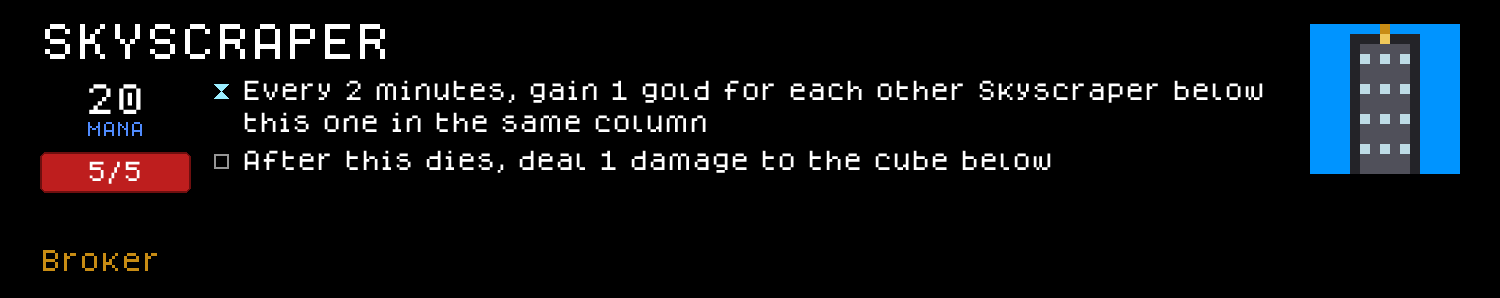
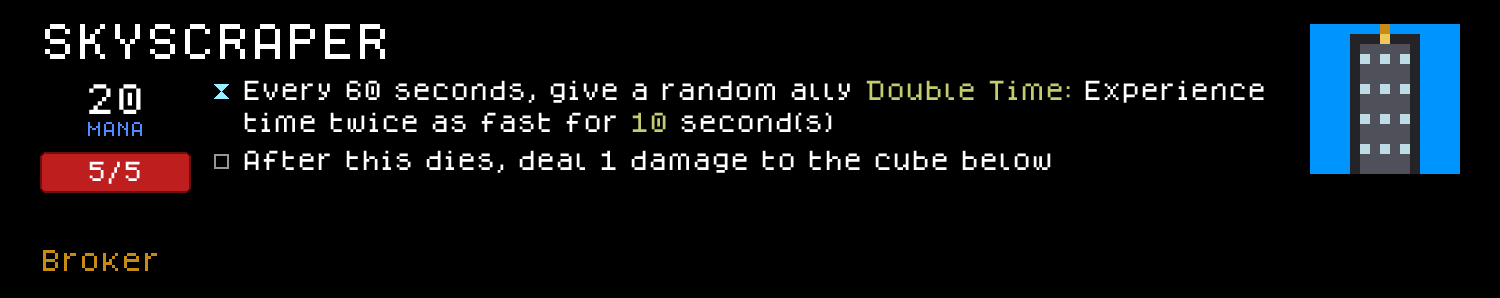
Rework Broker class
Also adds HP-type animation previews and upgrade-perk sprite sheet support.

Changed region(s): [[0.1533, 0.2718, 0.8587, 0.453]]

diff --git a/.claude/skills/cube-chaos-sprite-art/scripts/render_preview_cards.py b/.claude/skills/cube-chaos-sprite-art/scripts/render_preview_cards.py
@@ -583,6 +583,55 @@ def build_double_gif(mod_dir, cube_name, anim_name, frame_indices, out_path):
                  duration=DOUBLE_FRAME_MS, loop=0, disposal=2)
 
 
+HP_FRAME_MS = 700  # dwell per hp point. An HP animation's frame ORDER is fully determined
+# (see below), but its real-time pacing is not -- how fast a cube loses hp is a property of
+# the battle, not of the Animation: line -- so this is a fixed watchable rate, and the
+# README caption carries the hp range, the same division of labour CLOCK uses for cadence.
+
+
+def hp_frame_sequence(thresholds, amount, max_hp):
+    """Frame index shown at each hp value, from full hp down to 1.
+
+    Deterministic, unlike DOUBLE: an HP animation's ratio is exactly `1 - hp/max_hp`
+    (HPAnimation.AutoChangedCheck, decompiled and quoted in
+    cube-chaos-scripting/references/cube-animation.md), so the whole sequence follows from
+    max_hp plus the threshold list -- no live battle state involved.
+
+    Reproduces the engine's cumulative walk INCLUDING its carry semantics: `LastFrame` is
+    only written when `index > 0`, so at full hp (ratio 0, below every cumulative sum) the
+    frame is left at its default 0 -- which is why frame 0 (the LEFTMOST tile) is the
+    undamaged pose for an HP animation. That is the opposite of TRIGGER, where the resting
+    pose is the LAST frame; the two types settle at opposite ends of the strip.
+    """
+    seq, last = [], 0
+    for hp in range(max_hp, 0, -1):
+        remaining, index = 1.0 - hp / max_hp, 0
+        while index < amount and remaining >= thresholds[index]:
+            remaining -= thresholds[index]
+            index += 1
+        if index > 0:
+            last = index - 1
+        seq.append(last)
+    return seq
+
+
+def build_hp_gif(mod_dir, cube_name, anim_name, rest_tokens, max_hp, out_path):
+    if rest_tokens[0] == "EQUAL":
+        amount = int(rest_tokens[1])
+        thresholds = [1.0 / amount] * amount
+    else:
+        amount = int(rest_tokens[0])
+        thresholds = [float(t) for t in rest_tokens[1:1 + amount]]
+    frames = load_animation_frames(mod_dir, cube_name, anim_name)
+    assert len(frames) == amount, (
+        f"{cube_name}_{anim_name}.png has {len(frames)} frames, Animation: declares {amount}")
+    order = hp_frame_sequence(thresholds, amount, max_hp)
+    imgs = [frames[i].resize((CUBE_ANIM_GIF_PX, CUBE_ANIM_GIF_PX), Image.NEAREST)
+            for i in order]
+    imgs[0].save(out_path, save_all=True, append_images=imgs[1:],
+                 duration=HP_FRAME_MS, loop=0, disposal=2)
+
+
 def build_cube_animation_gifs(mod_dir, mod_prefix, out_dir):
     txt_path = os.path.join(mod_dir, f"{mod_prefix}_Cubes.c.txt")
     if not os.path.exists(txt_path):
@@ -608,8 +657,16 @@ def build_cube_animation_gifs(mod_dir, mod_prefix, out_dir):
                 build_double_gif(mod_dir, cube_name, anim_name,
                                   list(range(animation_amount(rest))),
                                   os.path.join(out_dir, out_name))
+            elif atype == "HP":
+                # maxhp is the CUBE: header's 4th field; the frame sequence is fully
+                # determined by it plus the thresholds (see hp_frame_sequence).
+                max_hp = int(b["header"].group(4))
+                if max_hp < 1:
+                    continue  # a 0-maxhp cube never renders a damaged state
+                build_hp_gif(mod_dir, cube_name, anim_name, rest, max_hp,
+                             os.path.join(out_dir, out_name))
             else:
-                continue  # HP/BOOLEAN/TIME playback isn't implemented yet
+                continue  # BOOLEAN/TIME playback isn't implemented yet
             written.append(out_name)
     return written
 
@@ -1260,11 +1317,29 @@ def build_perks():
         for i, b in enumerate(blocks):
             name_to_slot[b["header"].group(1)] = (basename, i)
 
-    # Upgrades live in their own sprite-less file, matching base-game
-    # convention (e.g. ZUpgradeClassPerks.c.txt) -- read it too, if present.
+    # Upgrades live in their own file, matching base-game convention (e.g.
+    # ZUpgradeClassPerks.c.txt) -- read it too, if present.
     upgrade_path = os.path.join(MOD_DIR, f"{MOD_PREFIX}_UpgradePerks.c.txt")
     upgrade_blocks = parse_blocks(upgrade_path, PERK_HEADER) if os.path.exists(upgrade_path) else []
     upgrade_by_name = {b["header"].group(1): b for b in upgrade_blocks}
+
+    # That file MAY ship its own real sheet. The base game always leaves it
+    # sprite-less (the icon then falls back to the base perk's, via the chain
+    # walk below), but the engine renders a real one fine, and SKILL.md's
+    # going-forward preference is to give new upgrade files real art. Register
+    # it as a normal icon source when it exists, so an upgrade shows its OWN
+    # icon instead of silently reusing its base perk's. Broker's Downtown is
+    # the first in this repo to have one.
+    upgrade_sheet_path = os.path.join(SPRITES, f"{MOD_PREFIX}_UpgradePerks.c.png")
+    if upgrade_blocks and os.path.exists(upgrade_sheet_path):
+        up_sheet = load_sheet(f"{MOD_PREFIX}_UpgradePerks.c.png")
+        sources["UpgradePerks"] = {
+            "blocks": upgrade_blocks,
+            "sheet": up_sheet,
+            "cols": real_cols(up_sheet, TILE_PERK, len(upgrade_blocks)),
+        }
+        for i, b in enumerate(upgrade_blocks):
+            name_to_slot[b["header"].group(1)] = ("UpgradePerks", i)
 
     def resolve_icon_slot(target_name, seen=frozenset()):
         # Walk the IsUpgradeFrom chain -- an upgrade can itself be the base
@@ -1315,8 +1390,12 @@ def build_perks():
         for i, b in enumerate(sources[basename]["blocks"]):
             cards.append(render_block(b, (basename, i)))
     for b in upgrade_blocks:
-        base_name = field(b["lines"], "IsUpgradeFrom:").split()[0]
-        cards.append(render_block(b, resolve_icon_slot(base_name)))
+        name = b["header"].group(1)
+        if name in name_to_slot:
+            cards.append(render_block(b, name_to_slot[name]))  # has its own art
+        else:
+            base_name = field(b["lines"], "IsUpgradeFrom:").split()[0]
+            cards.append(render_block(b, resolve_icon_slot(base_name)))
     return cards
 
 

diff --git a/.claude/skills/cube-chaos-mod-setup/scripts/sync_readme_preview.py b/.claude/skills/cube-chaos-mod-setup/scripts/sync_readme_preview.py
@@ -147,6 +147,8 @@ ANIMATION_CAPTIONS = {
     ("Unholy", "Two_Headed_Demon", "BiteLeft"): "Left Head Bite (every 0.7s)",
     ("Unholy", "Two_Headed_Demon", "BiteRight"): "Right Head Bite (every 2s)",
     ("Unholy", "Hell_Portal", "Open"): "Cube Spawn (every 60s)",
+    ("Broker", "Construction_Site", "Build"): "Skyscraper Build (every 2 min)",
+    ("Broker", "Skyscraper", "Crumble"): "Damage (5 hp down to 1)",
 }
 
 

diff --git a/.claude/skills/cube-chaos-scripting/references/perk-economy.md b/.claude/skills/cube-chaos-scripting/references/perk-economy.md
@@ -39,7 +39,7 @@ Confirmed via the complete real files: `Extra_Mechanics/Blights.c.txt` (24 entri
 - **Trigger keyword is genuinely mixed for Blight/Boon, unlike Curses' consistent `WorldAbility:`.** Real entries use whichever of `ObtainAction:`/`RemoveAction:` (one-shot effect on gain/loss, e.g. `Cheap_Difficulty`'s `ChangeCampaignVariable DIFFICULTY`), `WorldAbility:` (battle-scoped, bare `IsAlly`/`IsEnemy` same as Curses — e.g. `Early_Resistance`'s `AtTheStartOfTheBattle`), or `CampaignAbility:` (meta/run-scoped reactions with no single-battle context — `AfterYouUpgradeAPerk`, `BeforeYouTakeAStep`, `AfterAMapIsGenerated`, `AfterYouGainAPerk`, `AfterYouGainOrLoseCurrency`) actually fits the effect. One Boon (`Sturdy_Leader`) even uses a bare `Ability: AtTheStartOfTheBattle` for what reads like a `WorldAbility:`-shaped effect — an observed inconsistency in the real file, not a rule to imitate deliberately; default to `WorldAbility:` for any new battle-scoped Blight/Boon and only reach for plain `Ability:` if you have a specific reason.
 - **`Value:` sign is fixed by category and both carry `BalanceCap:` (or `Unique`) same as Curses**: Blight `Value:` is always negative (`-25` to `-300` in the real file, clustering at `-25`/`-50`/`-75`/`-100`), Boon `Value:` is always positive (`20`–`75`, no BalanceCap-less outliers). Both categories use `BalanceCap:` (Blight `1`–`30`, Boon `3`–`10`) or `Unique` as an alternative cap, same inverse-to-Value heuristic as Curses (`perk-economy.md` above).
 - **`ScalingPow: <float>`** is a real, undocumented (in `ModdingInfo.txt`/`ModdingExplanation.txt`) header field seen on ~half of real Blights (`0.5`–`1.2`, e.g. `Enemy_Diversity`'s `0.7`, `Debt`'s `1.1`) and on zero real Boons — treat it as a Blight-side-only convention until a real Boon example turns up. Reads as an exponent applied to how the perk's effective `BLIGHT_VALUE` cost scales as the player selects more copies (values `<1` = diminishing severity per repeat pick, `>1` = escalating) — inferred from the field name and its correlation with `BalanceCap:`, not confirmed against engine source.
-- **`CampaignAbility: AfterAMapIsGenerated` has already fired for the first map by the time a `BelongsTo: CLASS`/`SPECIES` perk exists** — `SCENARIO: Campaign` reads `First_Map` *before* `Class_Species_Selection` — so a class/species perk using that trigger silently no-ops on map 1 unless the same chain is duplicated into an `ObtainAction:`. Full rule, the `EveryMapNodeWhich`/`MapNodeIsType`/`SetMapNodeScenario` productions it goes with, and the verification grep: `cube-chaos-scenario-scripting/references/nodemap-generation.md` — "Rewriting an already-generated map from a `PERK:`".
+- **`CampaignAbility: AfterAMapIsGenerated` has already fired for the first map by the time a `BelongsTo: CLASS`/`SPECIES` perk exists** — `SCENARIO: Campaign` reads `First_Map` *before* `Class_Species_Selection` — so a class/species perk using that trigger silently no-ops on map 1 unless the same chain is duplicated into an `ObtainAction:`. Full rule, the `EveryMapNodeWhich`/`MapNodeIsType`/`SetMapNodeScenario` productions it goes with, and the verification grep: `cube-chaos-scenario-scripting/references/nodemap-generation.md` — "Rewriting an already-generated map from a `PERK:`". **This is not map-node-rewriting-specific — it applies to any `AfterAMapIsGenerated` payload on a class/species perk**, including a bare `ReadAScenario <X>` that just enters a screen (Broker's per-map Forge, 2026-08-04, which missed map 1 for exactly this reason). The same section's `COMPOUND: ACTION` rule applies even to a one-token payload: two literal copies of `ReadAScenario <X>` are still two copies to keep in sync when the scenario is renamed.
 - **`Requirement: FirstMap`** gates a Blight/Boon to only ever being offered on the campaign's first map (many real entries have it); **`Requirement: And IsLarger Nightmares 5 FirstMap`** additionally gates to runs that have unlocked 5+ Nightmares — the real pattern for late-game-only Boons like `Future_Boons`/`Mystery_Boon`.
 - **`Invisible`** is common on both categories for perks whose whole effect is a one-shot `ObtainAction:` (paired with `RemoveUponObtaining` when the perk shouldn't linger in inventory afterward, e.g. `Less_Lives`, `Debt`, `Cheap_Difficulty`) — the perk fires its effect once and disappears from the player's visible perk list.
 - **Nightmares are a fully separate economy: NO `Value:`/`BalanceCap:` at all, ever** — audited all 11 real entries in `Nightmares.c.txt`, zero carry either field, and all 11 are `Invisible`. A Nightmare isn't priced or pooled like a Blight/Boon; it's a permanent meta-progression choice offered one-at-a-time from a dedicated Nightmare-only pool (reached via the `Void` perk after first completing a run, through `Loop_Map`), each typically pairing an `ObtainAction:` (bump `BLIGHT_VALUE`/`BOON_VALUE`/`DIFFICULTY` campaign variables once) with a `CampaignAbility:`/`WorldAbility:` for an ongoing run-long effect in the same perk (e.g. `Nightmare_Of_Futures`: `ObtainAction: ChangeCampaignVariable BOON_VALUE 1` + `CampaignAbility: AfterCampaignSomething If IsType BLIGHTBOON ChangeCampaignVariable BLIGHT_VALUE 3`). **Don't add a `Value:`/`BalanceCap:` to a new Nightmare perk** — it would be inert (nothing reads it) and inconsistent with every real example.
@@ -63,6 +63,9 @@ Confirmed via all 13 real entries in `Main/CubeUpgrades.c.txt` plus the Forge sc
 - To scale a `PERK:`'s own effect by how many copies of it (or of perks matching some other predicate) the player owns, wrap the effect in `XTimes <DOUBLE> Action` where the DOUBLE is `AmountOfPerksInInventoryWhich <predicate>`. Real examples: `Jumble_Storm`/`Grand_Jumble_Storm` (`XTimes AmountOfPerksInInventoryWhich True ...`, scaling by *every* perk owned) and `Harsh_Environment`/`Varied_Environment` (feeding the count directly into `GainXExtraHp` instead of `XTimes`, scaling by a *category* predicate like `PerkIsType Test Neutral`). Combine with the self-name predicate above to scale specifically by copies of the perk itself — real DJ-mod usage: `Echo`'s hand-ability-steal loop is wrapped in `XTimes AmountOfPerksInInventoryWhich IsSameString NameOfPerk Test StringConstant Echo (...)` so owning more copies gives more steal attempts, while its separate `X%Chance DoubleConstant 10` Note-creation roll is left unscaled (each copy still rolls independently at the literal `10`, so the *aggregate* chance across all owned copies rises with stack count even though no single roll's probability number changes).
 - If a stacked perk's `Ability:` creates a cube at a shared position derived from the trigger event itself (e.g. `CreateCubeOnPosition ... PositionOfCube Victim` inside `AfterACubeDies`), only the first copy to successfully fire actually places it — a second copy's creation attempt targets the now-occupied tile. This is inferred from convention rather than independently load-tested: every other create-at-a-position pattern in this codebase explicitly `Exile`s the occupant first (see `references/death-fusion-reactive.md`'s "Fusing/removing two cubes into one" section), implying create-on-an-occupied-tile isn't a normal supported flow.
 - **"Each copy affects a different cube" (1st copy → 1st cube, 2nd copy → 2nd cube, etc.) needs no counter at all** — since copies fire sequentially against the same event (no dedup/merge, per above) and there's no `ThisPerk` self-reference to compute "which copy am I," the idiom is: search with `TheFirstCubeInHandOfFactionWhich FactionOfThis <predicate excluding cubes already touched>`, then act on the found cube in a way that also makes it fail that same predicate going forward, so the *next* copy's identical search naturally skips it and lands on the next-first untouched cube. Real base-game precedent: `Main/Perks.c.txt`'s `Bird_Feather` (`TargetCube TheFirstCubeInHandOfFactionWhich FactionOfThis Not HasAbilityWithName Test Flying GainAbility Flying`) — stacking copies each give Flying to the next flightless cube in hand order, using the granted ability itself as both the effect and the exclusion flag. **If the effect instead exiles/replaces the found cube** (rather than tagging it in place), no marker ability is even needed — the exiled original is simply gone from hand, so it can never be found again, and any newly-added replacement cubes get appended after the original hand slots, so subsequent copies still walk through the untouched originals first. Real DJ-mod usage, `Inspiration` (`DJ/DJ_Perks.c.txt`): `TargetCube TheFirstCubeInHandOfFactionWhich FactionOfThis Not HasLimitedUses Test` finds the first hand cube without the `Limited` status (reusing the base game's own `HasLimitedUses`/`RegeneratingUsesX` predicate as a ready-made "unlimited cube" filter, no custom tag needed), then `Both Exile XTimes DoubleConstant 3 AddCubeToHandOfFaction CopyWithAction Target NoManaCost FactionOfThis` exiles it and adds 3 fresh 0-mana copies. Went through two revisions before landing here: v1 tagged the original cube with a custom marker ability (worked, but needed inventing a marker); v2 tried granting `GainRegeneratingUsesX` (a genuine "limited uses" ability) to fake a flat 3-charge item, which required either `SetVariableOnCube` (zero precedent anywhere in the codebase, high risk) or accepted the built-in "always starts at 1, N = regen-interval-in-minutes" semantics — abandoned once the user pointed out **exiling the original and creating all N copies together in the same `CopyWithAction` call is strictly more robust for hand-UI stacking**, since all N instances go through byte-identical construction, whereas "keep the original, `CopyWithAction` it N-1 more times" risks the original silently diverging from its clones (e.g. different internal ability-grant timing) and not stacking visually even though they're mechanically the same.
+- **The same no-counter stacking idiom extends from "the next untouched CUBE" to "the next untouched POSITION" — use it whenever each copy should act one row/column further along.** Write the per-copy target as a *scan* whose stop condition the effect itself invalidates, rather than tracking "which copy am I" (which is unknowable — there's no `ThisPerk`, per the bullet above). Real usage, Broker's `Downtown` (`Broker_UpgradePerks.c.txt`, 2026-08-04): per column it walks up from `MaxWorldY` and stops at the first tile that is **empty or holds a neutral cube**, then builds an allied cube there. A placed allied cube is neither empty nor neutral, so copy 2's identical scan walks straight past copy 1's row and settles one row higher, copy 3 higher again — "the second copy takes the row above the first" with zero state. Two things this shape needs that the cube-search version doesn't:
+  - **A counted `Until` scan, because the engine has no position iterator.** `EveryCubeWhich` only visits *cubes*, so it can never act on an empty tile; the `POSITION` production list has no `EveryPositionWhich` (only `ARandomPositionWhich`), and `TheFirstCubeInDirectionFromPositionWhich` skips over empty tiles instead of stopping on one. So "act on a tile that may be empty" forces the manual `SetVariable`+`Until`+`ChangeVariable` scan (skeleton in `references/targeting-movement-board.md`, real precedent `General_Perks.c.txt:17-56`). Don't spend time looking for a shorter primitive — there isn't one.
+  - **Guard the Exile on occupancy.** `TargetCube CubeOfPosition <pos> Exile` on an empty tile calls `TargetCube` with a nonexistent cube; wrap it in `If Not IsPositionEmpty <pos>` so the "replace" and "fill the gap" branches share one code path safely.
 - **Apply a modifier to freshly-created copies via `CopyWithAction`'s own trailing `Action` parameter, not by modifying the source cube first.** `CopyWithAction CUBE Action` runs `Action` on the *copy*, not the source — so `AddCubeToHandOfFaction CopyWithAction Target NoManaCost FactionOfThis` makes each new copy free without ever touching `Target`'s own mana cost. This composes cleanly with `XTimes N (...)` for "add N modified copies" in one line, and avoids the ordering hazard of "modify original, then copy it" (where forgetting to modify-before-copy silently ships unmodified copies).
 
 ## Design quality: does stacking actually add value, for both perks and cube abilities

diff --git a/.claude/skills/cube-chaos-scripting/references/cube-animation.md b/.claude/skills/cube-chaos-scripting/references/cube-animation.md
@@ -174,6 +174,10 @@ sliced PNG, indices 0..Amount-1 in file/sheet order.
 **Default to `CLOCK` whenever the animation is tied to an `EveryX...`/`EverySecond`/`EveryMinute`-style ability, and
 reach for `TRIGGER` only when it's tied to an `After*` reactive trigger.** Two independent reasons:
 
+> **One exception to the `After*` half of that rule: a death trigger.** `AfterThisDies`/`BeforeThisDies`
+> read as reactive triggers but must use an `HP` animation instead — see "It should animate when it's
+> destroyed" above for why (the cube is already removed) and the base-game evidence (0 of 53).
+
 1. **Timing.** `CLOCK`'s frame tracks how full the bound ability's cooldown bar is, so **the last frame lands
    exactly on the moment the ability fires** — that is the only way to get "the hatch is already open as the rocket
    launches" or "the portal is already open as the cube spawns". `TRIGGER` plays its flourish *after* the fact, so
@@ -193,6 +197,73 @@ direction test, an "am I carrying nothing" test, and an ally-in-the-way test. `B
 move the Cardinal makes, yet the hoist flourish plays only on an actual pick-up ("correctly only plays on picking up
 something"), never on ordinary movement. This had been flagged as an unknown worth watching for; it is now settled,
 so don't re-derive it or pre-emptively restructure an ability around it.
+
+### "It should animate when it's destroyed" -> reach for `HP`, never a `TRIGGER` on a death trigger
+
+**When a request asks for a death/destruction animation, bind an `HP` animation, not a `TRIGGER` on
+`AfterThisDies`/`BeforeThisDies`.** A `TRIGGER` is driven by elapsed time *since the bound ability last
+fired*, so by the time it would play its flourish the cube has already been removed from the board and
+there is nothing left to draw.
+
+**Verification that this is the engine's own convention, not just a theory:** grep every base-game
+`Animation:` line for a nearby death trigger — **zero** of the 53 base-game `TRIGGER` animations bind to
+one. The decisive example is `Main/3GeneralCubes.c.txt:3672-3680`, `CUBE: Container`, which *has* an
+`Ability: AfterThisDies` and still uses `Animation: Crumble HP 0 EQUAL 5` for its destruction visual.
+The whole `Crumble` family (46 `HP` animations) is this pattern. Draw the frames so the last reachable
+one reads as the collapse (debris settling toward the tile's bottom row), and the mechanic and the
+visual line up on their own. (44 of those 46 `HP` animations are literally named `Crumble`.)
+
+**This is a carve-out from "Picking the TYPE" below, which otherwise says `TRIGGER` is the right
+choice for an `After*` reactive trigger** — `AfterThisDies`/`BeforeThisDies` are `After*`/`Before*`
+reactive triggers by that section's wording, but they are the one family where `TRIGGER` cannot work,
+because the flourish plays *after* the fact and there is no cube left to play it on.
+
+For what goes in each frame, note `cube-chaos-sprite-art`'s rule that an `HP` animation's frame 0
+**replaces** the cube's battlefield appearance at full hp — so frame 0 must be a complete rendition of
+the undamaged cube, not a "damage overlay," and it is what a placed instance looks like instead of the
+main sheet's tooltip icon.
+
+### `EQUAL <Amount>` on an `HP` animation ALWAYS wastes its last frame — at every max hp
+
+**An `EQUAL <Amount>` `HP` animation has `Amount-1` visible stages, not `Amount`.** `EQUAL` makes the
+thresholds sum to exactly `1.0`, and the last frame requires the cumulative sum `1.0` to be `<= ratio`
+— but `ratio = 1 - Health/MaxHealth` only reaches `1.0` at **0 hp**, i.e. a dead cube. So the final
+tile of the strip is never on screen while the cube is alive. This is **not** a small-cube quirk: it
+holds identically at 5 max hp and at 20 (`hp_frame_sequence` in `render_preview_cards.py` reproduces
+the engine walk and confirms both — maxhp 20 / `EQUAL 4` yields frames `0×10, 1×5, 2×5`, never 3).
+
+**All 77 base-game `HP` animations use `EQUAL`; zero use an explicit threshold list** (swept across
+`Main`+`Characters`+`Base_Core`+`Extra_Mechanics`, 2026-08-04). So every stock `Crumble` in the game
+quietly animates in `Amount-1` stages, and its most-destroyed frame is effectively a death pose nobody
+sees. That's the convention working as intended — just budget the frame, and don't expect the last one
+to show.
+
+**On a low-max-hp cube `EQUAL` additionally wastes frames beyond the last one**, because the ratio only
+takes `MaxHp+1` discrete values, so several slices can fall between two reachable ratios. Broker's
+`Skyscraper` (5 max hp) with `EQUAL 4` lands on frames 0,0,0,1,2 — 3 visible stages out of 4, with two
+different hp values sharing frame 0.
+
+**Fix for both: an explicit threshold list whose sum is `< 1.0`**, sized to the cube's real hp. This is
+a deliberate departure from the base game's universal `EQUAL` (it is the only explicit `HP` list in this
+repo as of 2026-08-04) and the reason it buys a stage per hp point:
+
+```
+Animation: Crumble HP 0 5  0.05 0.1 0.2 0.2 0.2
+```
+which maps 5hp->frame 0, 4hp->1, 3hp->2, 2hp->3, 1hp->4 — one visible stage per hp point.
+
+**Derive these from the CUMULATIVE sums, not the individual thresholds, and verify by walking the loop
+for every hp value.** Frame selection depends only on how many cumulative sums `S_i = t[0]+...+t[i]`
+are `<= ratio`, so the rule is: **every `S_i` must land strictly between two adjacent reachable
+ratios.** For 5 max hp the reachable ratios are 0/0.2/0.4/0.6/0.8, and the list above gives
+`S = 0.05, 0.15, 0.35, 0.55, 0.75` — each one sitting in a gap, which is exactly why it works.
+(`S_0 > 0` is what keeps ratio `0` at index 0 and so leaves frame 0 as the undamaged pose.)
+
+Do **not** shortcut this as "half a step, then `1/MaxHp` repeated" — that reads plausibly and is
+wrong: `0.1 0.2 0.2 0.2 0.2` gives `S_1 = 0.3`, which is above the 0.2 ratio, so 4hp still shows frame
+0 and the whole strip is off by one. This exact wrong formula was written into this file and caught the
+same day by re-checking it against the loop (2026-08-04); the arithmetic is small enough that walking
+all `MaxHp+1` values takes a minute and is the only thing that actually proves a threshold list.
 
 **Write the threshold list back-loaded and starting with a literal `0`** — e.g. `Animation: Launch CLOCK 0 4 0 0.88
 0.04 0.04`, matching the base game's own `Thump CLOCK 0 4 0 0.85 0.05 0.05`. That gives a long rest on frame 0 and
@@ -289,8 +360,17 @@ authoring a new animated cube, not discovering after:
   to a fixed `CLOCK_CYCLE_MS`, with a floor per frame so a 4%-share flourish frame doesn't flicker past and a cap on
   the long rest frame. **The cadence therefore belongs in the README caption, not the gif** — hence
   `sync_readme_preview.py`'s `ANIMATION_CAPTIONS` entries naming it outright ("Rocket Launch (every 45s)").
-- **`HP`/`BOOLEAN`/`TIME` have no preview support at all yet** (`render_preview_cards.py`'s own documented gap) — a
-  cube using one of these will render its static card with no animation gif until someone adds that playback logic.
+- **`HP` previews deterministically — order exactly right, pace fixed** (`build_hp_gif()`, added
+  2026-08-04). It is the second-most faithful type after `TRIGGER`, because `ratio = 1 - hp/maxhp` means
+  the entire frame sequence follows from the `CUBE:` header's own `maxhp` plus the threshold list, with
+  no live battle state involved: `hp_frame_sequence()` replays the engine's cumulative walk (carry
+  semantics included) once per hp point from full down to 1. What is *not* derivable is real-time pacing
+  — how fast a cube loses hp is a property of the battle, not the `Animation:` line — so the gif uses a
+  flat `HP_FRAME_MS` per hp point and the **hp range belongs in the README caption**, the same division
+  of labour `CLOCK` uses for cadence.
+- **`BOOLEAN`/`TIME` still have no preview support** (`render_preview_cards.py`'s remaining documented
+  gap) — a cube using one of these renders its static card with no animation gif until someone adds that
+  playback logic.
 
 **Practical takeaway when designing a new cube for this repo's own mods:** pick the type by engine semantics first
 (the section above — `CLOCK` for a periodic ability, `TRIGGER` for a reactive one); preview fidelity is a

diff --git a/.claude/skills/cube-chaos-sprite-art/SKILL.md b/.claude/skills/cube-chaos-sprite-art/SKILL.md
@@ -91,6 +91,8 @@ better known):**
 
 **An `IsUpgradeFrom:` upgrade perk doesn't *need* a unique sprite — if its dedicated file has no matching `Sprites/*.c.png`, it falls back to visually reusing its base perk's icon in-game.** That fallback is where the base game's own upgrade files land: `Characters/Classes/ZUpgradeClassPerks.c.txt`, `Characters/Species/UpgradeSpeciesPerks.c.txt`, and `Main/UpgradePerks.c.txt` all have zero matching sprite sheets. But **the fallback is not a hard limit — the engine also happily renders a real, unique sprite for an upgrade perk if one is given.** Corrected 2026-07-29 (`cube-chaos-audit` pass over the Steam Workshop "Dinosaurs!" mod): its `PerkUpgrades.c.png` gives all 11 of its `IsUpgradeFrom:` perks real, unique, multi-color (4–9 distinct colors) 27×27 art — not placeholders, and an exact 1:1 tile-to-perk match with zero spare slots. **Adopt this going forward: give a mod's `<ModPrefix>_UpgradePerks.c.txt` its own matching `<ModPrefix>_UpgradePerks.c.png` with real art**, the same as any other perk file, rather than leaving it sprite-less by default. (This is a going-forward preference, not a retrofit — existing upgrade perks in this repo's own mods that currently rely on the reused-base-icon fallback don't need art added retroactively just for this.)
 
+**`render_preview_cards.py` honours a real upgrade sheet as of 2026-08-04 — before that it silently didn't, so check the card, not just the sheet.** The script originally hardcoded the sprite-less assumption: it read `<Prefix>_UpgradePerks.c.txt` for *blocks only* and always resolved each upgrade's icon by walking `IsUpgradeFrom:` back to a base perk with a real slot. So drawing a `<Prefix>_UpgradePerks.c.png` produced a correct in-game icon but a preview card still showing the **base perk's** art — the same class of silent, looks-fine-but-wrong output as a stale card. `build_perks()` now registers that sheet as a normal icon source when the `.c.png` exists (each upgrade owning its own slot by file order in the upgrade file), and falls back to the chain walk only when it doesn't, so both conventions work. Broker's `Downtown` (2026-08-04) is the first upgrade perk in this repo with its own art and is the regression test for it: its card must show a dense skyline, not `Rising_Prominence`'s three-tower staircase. **When adding a mod's first-ever upgrade sheet, open the generated card and confirm it differs from the base perk's** — that one look is the only thing separating "the sheet works" from "the sheet is being ignored."
+
 **Regardless of whether the upgrade file ends up with its own sprite sheet, the base game never mixes upgrade perks into the same `.c.txt` file as the regular perks they upgrade — upgrades always live in their own dedicated file.** Confirmed exhaustively: `Characters/Classes/Priest.c.txt`/`Warrior.c.txt`/`Engineer.c.txt` (and every other class file checked) contain **zero** `IsUpgradeFrom:` lines — every one of those classes' upgrades instead lives in the single shared `Characters/Classes/ZUpgradeClassPerks.c.txt`. Same pattern for species and for the general reward-perk pool (`Main/Perks.c.txt`, 389 perks, 0 upgrades, vs. the separate `Main/UpgradePerks.c.txt`). **This file-separation is still the pattern to follow for new mod content, not an edge case** — put every `IsUpgradeFrom:` perk in a `<ModPrefix>_UpgradePerks.c.txt` alongside the regular one, whether or not that file also gets its own sprite sheet. This keeps a mod's regular-perks sheet fitting only real, iconned regular perks, with zero upgrade-shaped gaps to reason about — the upgrade file's own sheet (if any) is sized/sliced independently, on its own file-order count.
 
 **Why the file-separation matters, not just as tidiness:** the alternative — mixing upgrade and regular perks in one file sharing one sheet — technically still works (every `PERK:` block, upgrade or not, consumes a sequential grid slot in file order, and an upgrade's slot is just conventionally left blank if unsprited), but it's a real footgun: get the slot-counting wrong and every regular perk *after* the first upgrade in the file silently lands one-or-more slots off from where the engine actually looks (`WARNING: Perk <name> from package <pkg> with empty Image`, i.e. a checkerboard/missing-texture in-game, with no load-time error to flag it). This is exactly what happened to this mod set before the fix: both the DJ mod's `Feedback`/`Final_Countdown`/`Grand_Finale` (swapped icons from a slot-counting mistake) and, independently, the General mod's `Arms_Race_Mk3` (whose preview card silently rendered as a *blank* icon — a chained-upgrade lookup bug in `render_preview_cards.py` resolving only one `IsUpgradeFrom:` hop instead of walking the full chain back to a real perk) trace back to upgrades sharing a sheet with regular perks. Both mods were restructured to split upgrades into their own `<ModPrefix>_UpgradePerks.c.txt` (`DJ_UpgradePerks.c.txt`, `General_UpgradePerks.c.txt`) specifically to eliminate this whole class of bug rather than keep managing it carefully — do the same for any new mod from the start.

diff --git a/.claude/skills/cube-chaos-audit/references/cross-skill-index.md b/.claude/skills/cube-chaos-audit/references/cross-skill-index.md
@@ -65,3 +65,8 @@ tracking them as a set, so the same asymmetry kept recurring skill after skill.
 | Holding `ChargeEveryX` **and** `FleeEveryX` at once is legal and yields net drift = difference of the two rates (they're independent timers over the same one-line compound); the old "it jitters" claim is only true at equal periods | `cube-chaos-scripting/references/targeting-movement-board.md` ("Holding BOTH at once") | `cube-chaos-balancing` (a net-drift melee cube's effective aggression differs from a plain charger's); zero base-game precedent, so `cube-chaos-audit` should treat it as unverified-in-play, not as a bug | needs link |
 | `HasCategory Test <Tag>` is case-sensitive (`ArrayList.contains` → `String.equals`, no normalisation); a `TYPE`/filter casing mismatch silently matches nothing with no error — the base game's own `No_Class` has this bug (`ATTACKER` vs the universal `TYPE Attacker`) and grants 2 cubes while promising 3 | `cube-chaos-scripting/references/creation-and-copying.md` ("Randomizing a grant from a custom pool") | `cube-chaos-audit` has no row for TYPE-vs-HasCategory casing drift — it's a paired-grep check, exactly the shape of its other detection recipes | needs checklist row |
 | A perk granting a cube from a *filtered random pool* has no literal `CubeConstant` token, so its tooltip/preview referenced-cube icons come out empty unless explicit `ReferenceCube:` lines are added | `cube-chaos-sprite-art/SKILL.md` (README preview-card section, two-source lookup) and `cube-chaos-scripting/references/creation-and-copying.md` | `cube-chaos-scripting/references/creation-and-copying.md` now points here from the random-pool section; real instances: DJ's class perk, Unholy's `Lichdom` | linked 2026-08-03 |
+| A death/destruction visual must be an `HP` animation, never a `TRIGGER` bound to `AfterThisDies`/`BeforeThisDies` (the cube is gone before the flourish could draw) — 0 of 53 base-game `TRIGGER` animations bind to a death trigger, and `Container` has an `AfterThisDies` yet still uses `Animation: Crumble HP` | `cube-chaos-scripting/references/cube-animation.md` ("It should animate when it's destroyed") | Now linked both ways with `cube-chaos-sprite-art` (owns the `HP`-frame-0-is-the-battlefield-look rule) and carved out inline from the same file's "Picking the TYPE" section, which otherwise sends `After*` triggers to `TRIGGER`; `cube-chaos-audit` still has no row for a death-animation bound to the wrong TYPE | linked 2026-08-04, needs checklist row |
+| `EQUAL <Amount>` on an `HP` animation **always** wastes its last frame, at any max hp (thresholds sum to exactly 1.0; ratio hits 1.0 only at 0 hp = dead) — so all 77 base-game `HP` animations really animate in `Amount-1` stages; a low-max-hp cube additionally loses more, and the fix is an explicit list summing to <1.0 | `cube-chaos-scripting/references/cube-animation.md` ("`EQUAL <Amount>` on an `HP` animation ALWAYS wastes its last frame") | `cube-chaos-sprite-art` (an unreachable frame is wasted drawing effort — worth knowing before painting the strip, not after); `cube-chaos-balancing` (a max-hp change silently re-maps which frames are reachable) | needs link |
+| The no-counter perk-stacking idiom extends from "the next untouched CUBE" to "the next untouched POSITION" (scan until a tile the effect itself invalidates) — and that shape forces a manual `Until` scan, because the engine has **no** position iterator (`ARandomPositionWhich` is the only `BOOLEAN`-filtered POSITION production) | `cube-chaos-scripting/references/perk-economy.md` ("The same no-counter stacking idiom extends... to the next untouched POSITION") | `cube-chaos-scripting/references/targeting-movement-board.md` owns the `SetVariable`+`Until`+`ChangeVariable` scan skeleton this reuses; real instance: Broker's `Downtown` | needs link |
+| The first-map `AfterAMapIsGenerated` trap is **not** map-node-rewriting-specific — it applies to any payload on a class/species perk, incl. a bare `ReadAScenario <X>`, and the `COMPOUND: ACTION` rule applies even to a one-token payload | `cube-chaos-scenario-scripting/references/nodemap-generation.md` ("The first map is generated BEFORE class/species selection") | Already linked both ways (`cube-chaos-scripting/references/perk-economy.md`'s Blight/Boon trigger bullet ↔ that section); the 2026-08-04 Broker Forge case is what generalised it past map-node rewriting | linked 2026-08-04 |
+| A real `<Prefix>_UpgradePerks.c.png` is now honoured by `render_preview_cards.py` (before 2026-08-04 it always walked `IsUpgradeFrom:` back to the base perk's icon, so a drawn upgrade sheet rendered a correct in-game icon but a wrong preview card) | `cube-chaos-sprite-art/SKILL.md` ("`render_preview_cards.py` honours a real upgrade sheet as of 2026-08-04") | `cube-chaos-mod-setup` (owns README/Preview governance, where the wrong-but-plausible card would surface); first instance: Broker's `Downtown` | needs link |

diff --git a/.claude/skills/cube-chaos-rule-text/SKILL.md b/.claude/skills/cube-chaos-rule-text/SKILL.md
@@ -25,6 +25,19 @@ Step 3 is not optional bookkeeping — it's the mechanism that keeps step 1 usef
 
 **Never edit `ModdingInfo.txt`/`ModdingExplanation.txt` or anything under the base-game `GameData/` folders** — they're read-only ground truth (see `CLAUDE.md`).
 
+## Keep `Text:`/`Description:` pure ASCII — no em dashes, curly quotes, or accented characters
+
+**Write `-` or a comma where prose style wants an em dash, and `'` where it wants a curly apostrophe.**
+Every `.c.txt` in the entire base game is pure ASCII — **0 of all 67** files across `Main`, `Characters`, `Base_Core` and `Extra_Mechanics` contain a non-ASCII byte, and neither does any of this repo's own mod content (checked 2026-08-04):
+```bash
+find GameData/{Main,Characters,Base_Core,Extra_Mechanics} -name '*.c.txt' -exec grep -lP '[^\x00-\x7F]' {} +
+```
+Use `find -exec` rather than a `GameData/<Pkg>/*.c.txt` glob — `Characters/` keeps most of its files in `Classes/`/`Species/` subfolders, so a non-recursive glob silently checks a fraction of the corpus and "returns zero" for the wrong reason. So there is no precedent anywhere for a non-ASCII byte surviving the tokenizer and the bitmap font. Whether it would actually render or mojibake is **untested**, and a tooltip is a bad place to find out: this is a cheap-to-avoid unknown, not a confirmed bug.
+
+Caught before shipping on Broker's class perk `Description:` (2026-08-04), where "every map — including the first — starts with a Forge" was rewritten to "every map, including the first, starts with a Forge".
+
+**This applies to `.c.txt` files only, not to a mod's `README.md`** — those are ordinary GitHub markdown and already use em dashes freely. The README has its own, unrelated hazard (bare DSL keywords being tokenized out of prose) covered in `cube-chaos-mod-setup`.
+
 ## Forcing a real line break for a multi-point list: `\N`
 
 `\N` (literal backslash + capital N, as two plain characters embedded in the field's text) is a real, confirmed forced-line-break marker the tooltip renderer honors — not a paraphrase, an actual mechanism. Confirmed via dozens of real base-game examples (`Main/3GeneralCubes.c.txt`, `Main/UpgradePerks.c.txt`, `Characters/Classes/PerkFragments.c.txt`, `Extra_Mechanics/Blights.c.txt`, etc.), e.g.:

diff --git a/GameData/Broker/README.md b/GameData/Broker/README.md
@@ -1,6 +1,6 @@
 # Broker — a Cube Chaos Class mod
 
-A gold-and-gambling Class: cube upgrades you buy never run out of uses, every map opens with a Forge offering only Cube Upgrades, and gold income doubles as mana income.
+A gold-and-real-estate Class: cube upgrades you buy never run out of uses, every map opens with a Forge offering only Cube Upgrades, and you can buy enemy units outright — or pave the battlefield with construction sites that grow their own skyline.
 
 <!-- PREVIEW:START -->
 ## Preview — Broker mod content
@@ -9,13 +9,27 @@ Each card below is rendered to match the game's own in-game tooltip style. Full-
 
 ### Cubes
 
-<img src="Preview/Broker_Cubes_All_In.png" width="700" alt="All In cube card">
+<img src="Preview/Broker_Cubes_Bribe.png" width="700" alt="Bribe cube card">
 <img src="Preview/Broker_Cubes_Skyscraper.png" width="700" alt="Skyscraper cube card">
+<table>
+<tr>
+<td valign="middle">Damage (5 hp down to 1)</td>
+<td valign="middle"><img src="Preview/Broker_Cubes_Skyscraper_Crumble.gif" width="70" alt="Skyscraper Crumble animation"></td>
+</tr>
+</table>
 <img src="Preview/Broker_Cubes_Construction_Site.png" width="700" alt="Construction Site cube card">
+<table>
+<tr>
+<td valign="middle">Skyscraper Build (every 2 min)</td>
+<td valign="middle"><img src="Preview/Broker_Cubes_Construction_Site_Build.gif" width="70" alt="Construction Site Build animation"></td>
+</tr>
+</table>
 
 ### Perks
 
 <img src="Preview/Broker_Perks_Broker.png" width="700" alt="Broker class perk card">
+<img src="Preview/Broker_Perks_Rising_Prominence.png" width="700" alt="Rising Prominence perk card">
+<img src="Preview/Broker_Perks_Downtown.gif" width="700" alt="Downtown perk card (upgrade of Rising Prominence)">
 <!-- PREVIEW:END -->
 
 ## Installing this mod (to play it)
